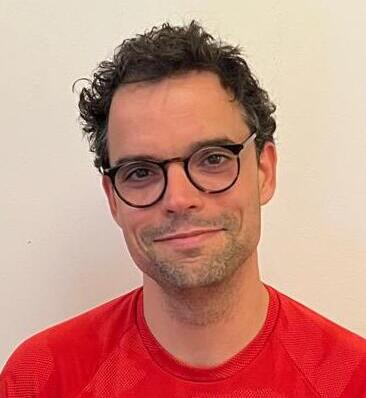
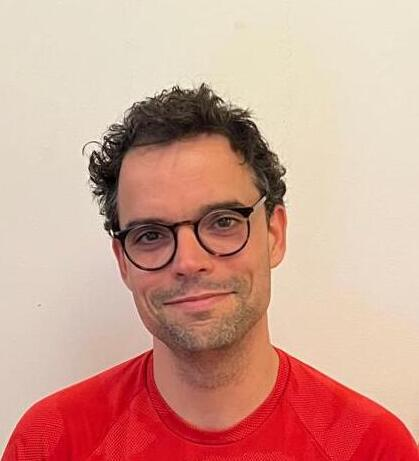
vincent return post

diff --git a/content/post/26-01-01_Vincent_return/index.md b/content/post/26-01-01_Vincent_return/index.md
@@ -1,7 +1,7 @@
 ---
 title: 'Welcome back, Vincent!'
 subtitle: 'After a postdoc in the Stark lab (IMP, Vienna), Vincent is back to work on our epigenetic cancer model.'
-date: 2025-12-31
+date: 2026-01-01
 image:
   focal_point: 'top'
 share: false  
